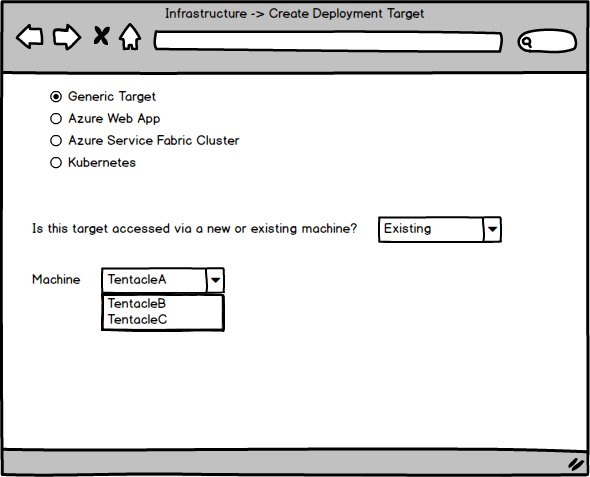
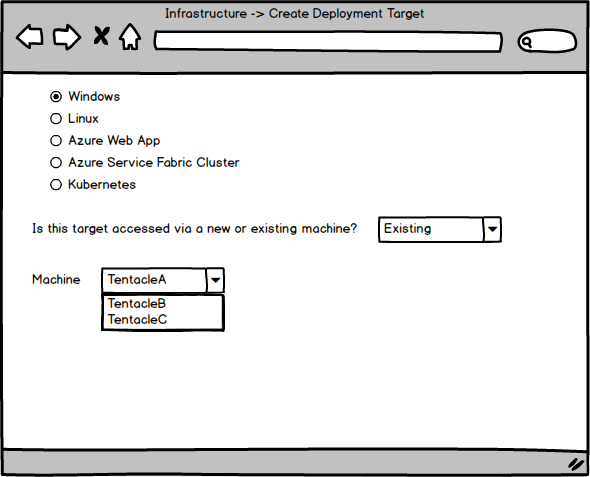
took Generic targets out and went back to original idea of Windows and Linux target. Additional mockup for worker pool selection

Changed region(s): [[0.0915, 0.1761, 0.3966, 0.3522], [0.0915, 0.3816, 0.2441, 0.4109]]

diff --git a/MachinesAndDeploymentTargets/index.md b/MachinesAndDeploymentTargets/index.md
@@ -37,18 +37,6 @@ A DeploymentTarget represents a thing we are deploying to and can specify a cons
 
 This separation lets us model a number of things in ways that more closely represent the real world. Let's revisit our example from earlier, imagine we have a test environment where IIS and SQL live on the same server. We install a Listening Tentacle machine and add it to the Test environment. We then create a Tentacle DeploymentTarget to represent the things we're deploying to and the process and variables stay the same as they were. In Production maybe IIS and SQL are separate, so we create two listening Tentacles with a machine entry each and a Tentacle target each.
 
-This all sounds like more work and complexity for the user though, why would we want that?
-
-## Non-targets
-
-As an extension to this, what if there are things in the real world that are important to the deployment process but they aren't things we're actually deploying to. To give a working name to this idea for the moment, let's call these things Assets.
-
-A common example of an asset that we've talked about in the past are load balancers and reverse proxies. These aren't things we're deploying directly to, but we have to know about them for doing things like rolling deployments and blue/green deployments.
-
-Modelling these as first class members of our world moves us a step closer to being able to visualise an environment in a much more detailed way for our customers.
-
-Assets probably wouldn't be things we'd need to health check, but maybe knowing they are healthy is of value? Once they are part of our model, and we know how to connect to them, it's a small step to be able to allow scripted health checks on them.
-
 ## Portal UI
 
 The suggestion here is a higher fidelity model to open some doors, we'll talk more about these doors below.
@@ -59,9 +47,9 @@ At the same time we don't want to complicate things for those who don't need tha
 
 Machines and Deployment Targets will have their own pages in the Infrastructure area. The current page called Deployment Targets actually shows entries from the machine table, it would change to showing entries from the DeploymentTargets table.
 
-To represent what customers do in Octopus today, we will create a "Generic Target(s)" (exact name is up for consideration), which would be used by the Listening Tentacle, Polling Tentacle, and the SSH machines.
+To represent what customers do in Octopus today, we will create a _Windows_ target and a _Linux_ target, which would be used by the Listening Tentacle, Polling Tentacle, and the SSH machines.
 
-When creating a generic target we could ask whether this is for a new machine or an existing machine. **New** would be the default and result in much the same UI as today, and we'd create the records in both tables for you. 
+When creating a Windows or Linux target we could ask whether this is for a new machine or an existing machine. **New** would be the default and result in much the same UI as today, and we'd create the records in both tables for you. 
 
 ![](target-new-machine.png)
 
@@ -71,7 +59,9 @@ When creating a generic target we could ask whether this is for a new machine or
 
 For all other deployment target types the machines aren't relevant, you'll be specifying a worker pool just like today. The difference under the hood here is that you end up with a record in the DeploymentTarget table, rather than the Machine table.
 
-From the other end, we could do a similar thing when creating machines. We could ask the user if they want to create a new generic target as part of creating the machine, and if so they just need to enter the name and role(s) for the target.
+![](target-pool.png)
+
+From the other end, we could do a similar thing when creating machines. We could ask the user if they want to create a new Windows or Linux target as part of creating the machine, and if so they just need to enter the name and role(s) for the target.
 
 This would keep us close to the single page create experience we have today, without stopping the users from utilizing the new functionality. _Initial conversation with Jess indicates there may be reason to jump the user to a separate page or dialog or something to do the creates._
 
@@ -147,7 +137,7 @@ This would again improve the usability for the user, by moving more things away 
 
 # Migration
 
-Migrating the data for this change will revolve around creating a DeploymentTarget record matched to every existing Machine record, with the appropriate fields moved across.
+Migrating the data for this change will revolve around creating a DeploymentTarget record matched to every existing Machine record, with the appropriate fields moved across. Tentacle machines will have a resulting Windows target and SSH machines will have a resulting Linux target.
 
 Machine records for all things that aren't Tentacles or SSH can then be removed.
 
@@ -169,10 +159,7 @@ A key objective with the updated model is to make the target types extensible, s
 
 # Remaining questions and futures
 
-We've thought about representing load balancers/reverse proxies, e.g an F5, to make rolling deployments, blue green deployments etc easier to visualise. But they aren't a Deployment Target. They feel more like a Machine where we'd want to execute a script.
-_Non-targets section above may address this now_
-
-Roles would be on the DeploymentTarget, not the machine. If we get to making Roles a first class thing, should they be able to say "I can be used on these target types!", e.g. so "DB installer" can only be used on a SQL target and not an IIS target. The next piece in this is for the steps to know which target types they support, and therefore which roles to display.
+Roles would be on the DeploymentTarget, not the machine. If we get to making Roles a first class thing, should they be able to say "I can be used on these target types!", e.g. so "DB" can only be used on a SQL target and not an IIS target. The next piece in this is for the steps to know which target types they support, and therefore which roles to display.
 Would this then even mean that roles could become optional? E.g. if the step didn't specify a role then it'd deploy to all targets of the correct type in the environment.
 
-How should scopes like Environment and Tenant work? It feels like they belong to DeploymentTargets for non-Tentacle/SSH things. But for Machines should we also be able to constrain to say "Only deployment targets for Production for TenantA can use this machine"? It doesn't sound unreasonable, but will the complexity/headaches it will add be worth it?
+How should scopes like Environment and Tenant work? It feels like they belong to DeploymentTargets for non-Tentacle/SSH things. But for Machines should we also be able to constrain to say "Only deployment targets for Production for TenantA can use this machine"? It sounds reasonable, but will the complexity/headaches it will add be worth it?
